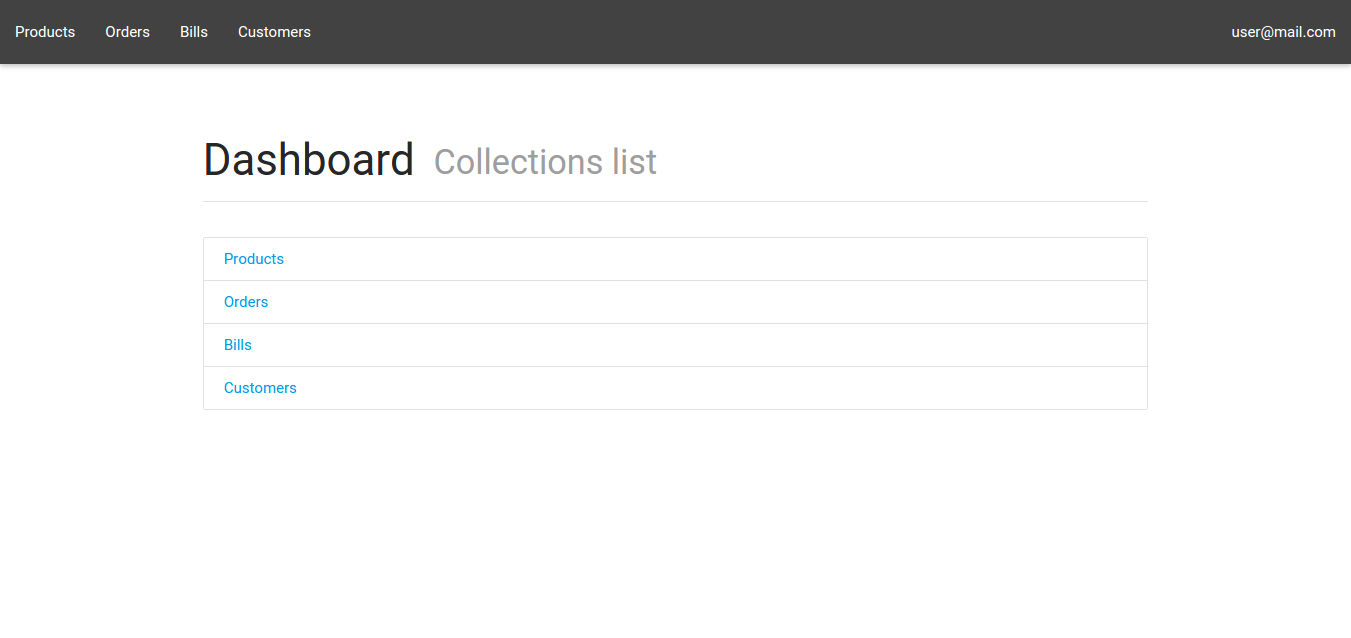
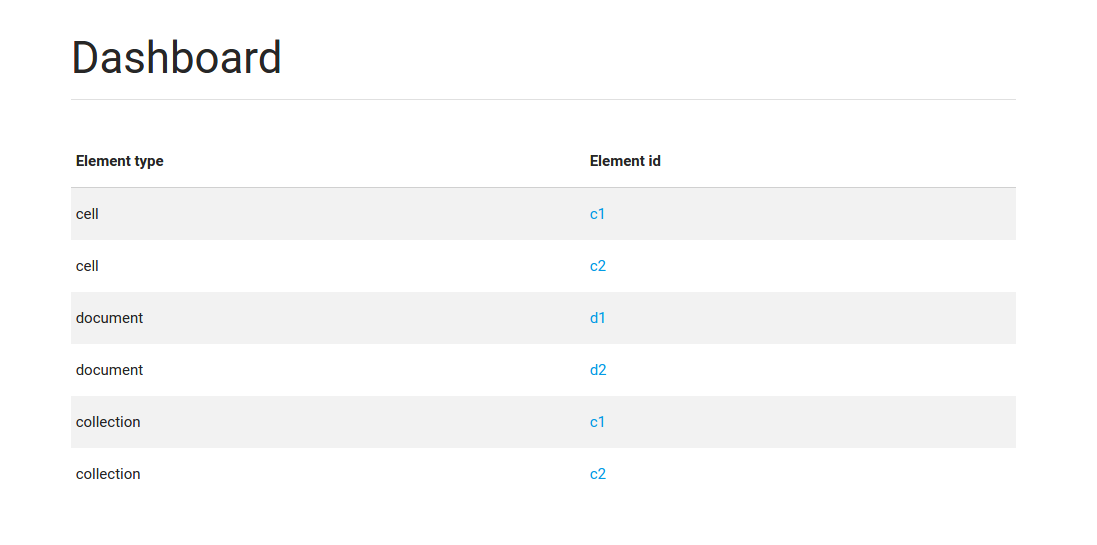
Add dashboard

diff --git a/chapters/managementCollection.md b/chapters/managementCollection.md
@@ -1,16 +1,18 @@
-# Collection management
+# Dashboard
 
 ## Displaying the dashboard
-The *Dashboard* is the main page from which you can have access to the list of collection in the system and other features. To enter you must be authenticated.
+The *Dashboard* is the main page from which you can have access to the list of collection in the system and other features. To see it you must be authenticated.
 ![](../img/dashboard.png)
+From the dashboard you can view your cells, documents and collections. Clicking the ID of the element you will see the value of that element. There are three types of element: cell, document and collection. They are shown in different ways depending of their type. These pages will be desribed below.
 
-## Opening collection index
-The collection index page displays the contents of a collection in a table. To open a collection index you need to click on the link in the menu bar (1), MaaS will show the entire contents of the collection (2). This table displays all the documents you can open by clicking on the related links (3).
-![](../img/collectionIndexPage.png)
+## Collection
+![](../img/collection.png)
+A click on the collection ID will redirect you to the collection page. Here you will see a list of the documents contained in the selected collection. In addition to the document name are shown the properties (and their value) of the selected document.
 
-## Opening the show-page of a document
-The show-page of a document displays the attributes of a document in a table. To access a show-page you must be in the index of the collection the show page belongs and follow step 3.
-![](../img/documentShowPage.png)
+## Document
+![](../img/document.png)
+A click on the document ID will redirect you to the show-page of a document. The show-page of a document displays the attributes of a document in a table. For each property is shown the corresponding value.
 
-## Displaying show page attributes
-The presence of grafted document is highlighted by the attribute as a link through which you can access to the show page.
+## Cell
+![](../img/cell.png)
+The cell is the most simple element of the dashboard. A click on the cell ID will redirect you to the cell page, and you will see only its value.

diff --git a/SUMMARY.md b/SUMMARY.md
@@ -3,6 +3,6 @@
 * [Preface](README.md)
 * [Introduction](chapters/introduction.md)
 * [Authentication and profile management](chapters/authenticationAndProfileManagement.md)
-* [Management collection](chapters/managementCollection.md)
-* [Management members](chapters/managementMembers.md)
+* [Dashboard](chapters/managementCollection.md)
+* [Members management](chapters/managementMembers.md)
 
